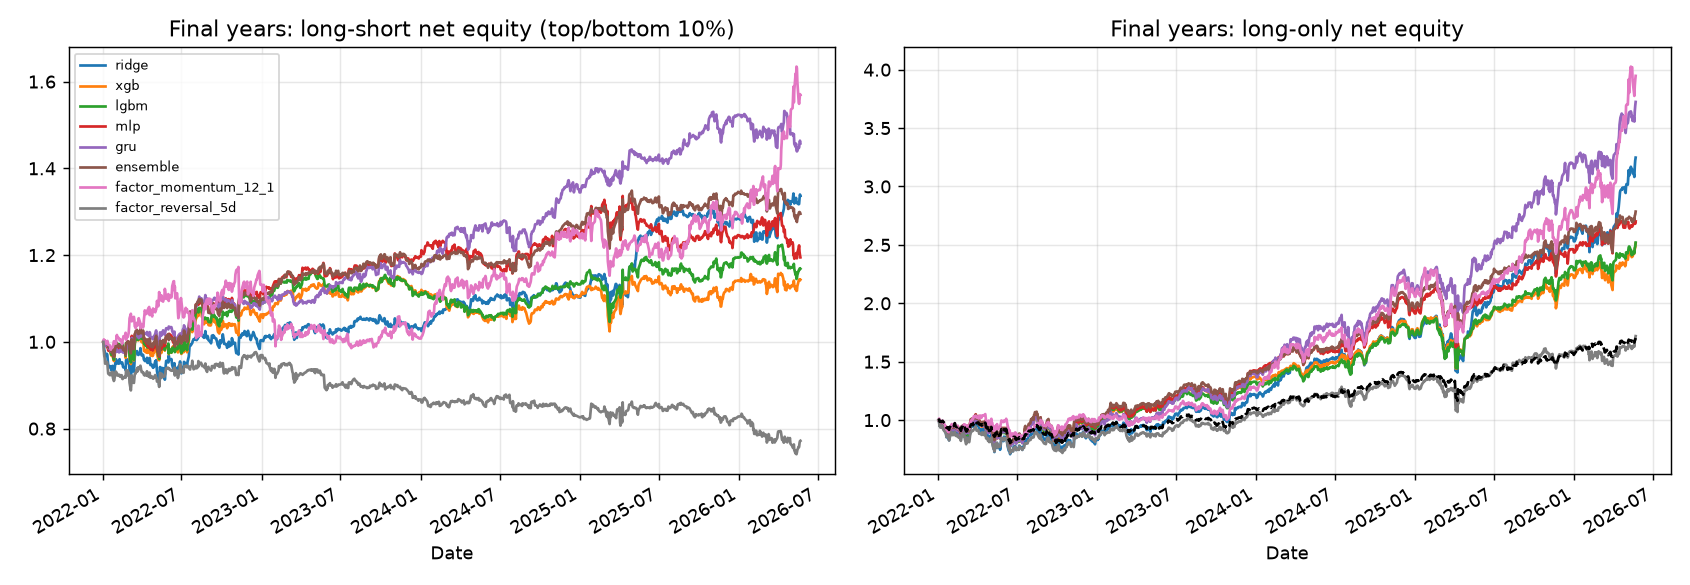
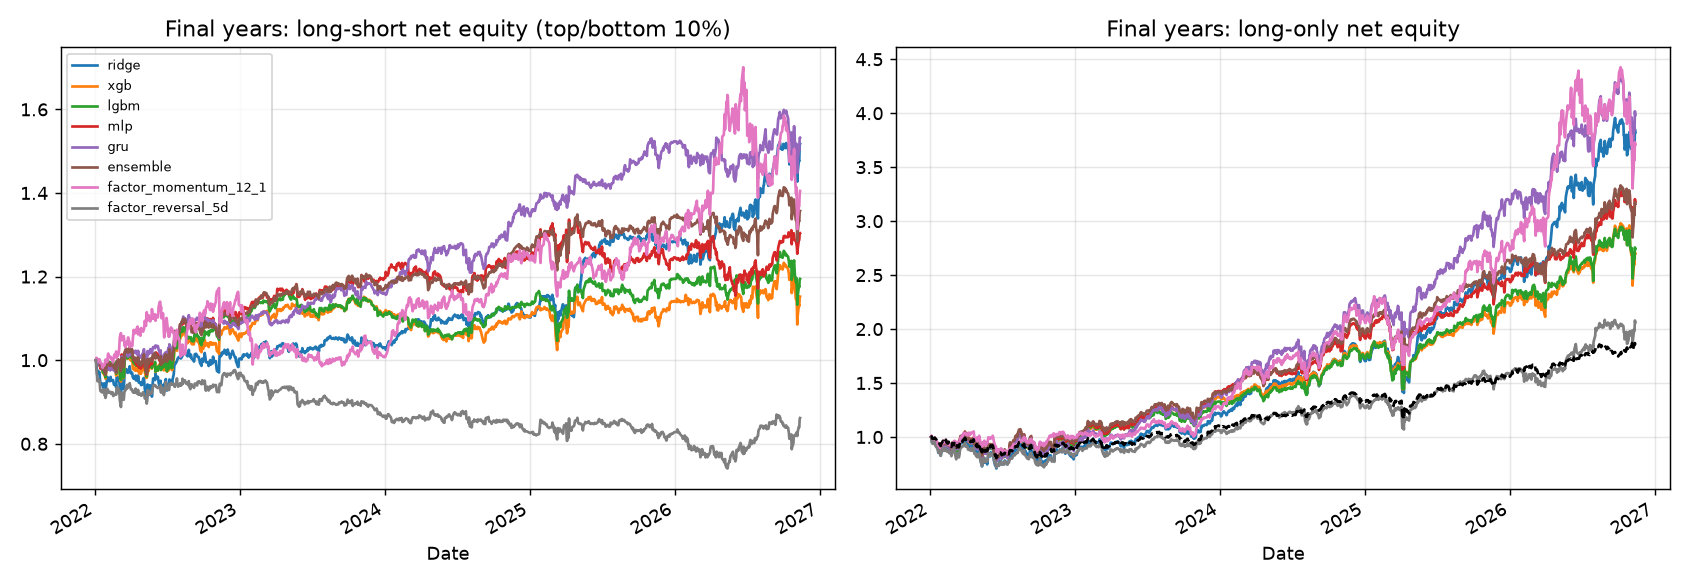
Rerun results on corrected data; add pristine-tail section and round-two search

diff --git a/ml2/significance.py b/ml2/significance.py
@@ -40,9 +40,12 @@ def main():
     fwd = ds.fwd[S.HORIZON]
     rows = []
     for model in MODELS:
-        for tag, (a, b) in (("dev", S.DEV_YEARS), ("final", S.FINAL_YEARS)):
+        for tag, (a, b) in (("dev", S.DEV_YEARS), ("final", S.FINAL_YEARS), ("pristine", S.FINAL_YEARS)):
             years = list(range(a, b + 1))
-            preds = explore.preds_for(ds, best, model, years, tag)
+            preds = explore.preds_for(ds, best, model, years, "final" if tag == "pristine" else tag)
+            if tag == "pristine":  # only the days no earlier analysis saw
+                years = [b]
+                preds = {b: preds[b].loc[S.PRISTINE_FROM:]}
             ls, lo = pooled(preds, years, ds, "ls"), pooled(preds, years, ds, "long")
             mom_ls = pooled(factor_preds(ds, years)["factor_momentum_12_1"], years, ds, "ls")
             ew = evaluate.equal_weight_universe(lo.index, ds.close)["net_returns"]

diff --git a/README.md b/README.md
@@ -65,7 +65,7 @@ is mainly diversification, not predictive skill.
 A bigger rebuild in `ml2/`. Instead of "will this ticker go up", the models rank about 520 stocks and ETFs
 against each other each day and a portfolio goes long the top decile and short the bottom decile.
 
-- **Data:** 2.5M rows (today's S&P 500 members plus 18 ETFs), daily, 2005 to May 2026, 109 features
+- **Data:** 2.6M rows (today's S&P 500 members plus 18 ETFs), daily, 2005 to Nov 2026, 109 features
   (momentum, volatility, technicals, 52-week range, volume and illiquidity, overnight gap vs intraday move,
   beta, sector-relative returns, VIX/SPY context, calendar) plus cross-sectional rank versions.
 - **Target:** cross-sectional rank of the 5-day forward return, so market-wide drift cancels out.
@@ -74,7 +74,8 @@ against each other each day and a portfolio goes long the top decile and short t
   config found by the overnight search below; every other model uses the improvement loop's settings.
 - **Validation:** yearly walk-forward with a 5-day embargo. Dev years 2013-2021 drive every decision.
   Final years 2022-2026 are reported but no tuning decision uses them (an early round did see them once,
-  so they are not a pristine test). Costs: 7 bps per trade plus 30 bps/yr borrow on shorts.
+  so they are not a pristine test). The days after 2026-05-22 are pristine: a data bug had hidden them from
+  every analysis until it was fixed late (see "Pristine tail"). Costs: 7 bps per trade plus 30 bps/yr borrow on shorts.
 - **Improvement loop** (`ml2/loop.py`): 35 passes over features, targets, horizons, hyperparameters, model
   families, portfolio rules and a 25-trial Optuna search. A change is kept only if it gains at least 0.0015
   mean rank IC and wins in at least 5 of 9 folds. The loop stopped on its patience rule twice because
@@ -83,42 +84,71 @@ against each other each day and a portfolio goes long the top decile and short t
 - **Outcome of the loop:** one change was kept (raw features instead of rank features, IC 0.030 to 0.032).
   Optuna and the bigger models did not beat the defaults.
 
-Held-out results, 2022 to May 2026 (net of costs, base decile book; the headline model is the one with the
+Held-out results, 2022 to Nov 2026 (net of costs, base decile book; the headline model is the one with the
 best dev Sharpe, and no choice used these years):
 
 | Model | Rank IC | Long-short Sharpe | Long-short return | Long-only top decile Sharpe | Long-only return |
 |---|---|---|---|---|---|
-| **GRU, search-tuned (headline)** | 0.025 | **1.10** | 9.0% | 1.25 | 35.1% |
-| Ensemble | 0.033 | 0.69 | 6.1% | 1.07 | 26.4% |
-| XGBoost | 0.032 | 0.37 | 3.1% | 0.97 | 23.5% |
-| LightGBM | 0.033 | 0.43 | 3.6% | 0.98 | 23.6% |
-| MLP | 0.024 | 0.47 | 4.2% | 1.03 | 25.5% |
-| Ridge | 0.029 | 0.68 | 6.9% | 1.09 | 30.9% |
-| 12-1 momentum factor | 0.030 | 0.84 | 10.9% | 1.37 | 36.9% |
-| 5-day reversal factor | 0.008 | -0.56 | -5.8% | 0.62 | 13.2% |
-| Equal-weight universe | | | | 0.80 | 13.0% |
+| **GRU, search-tuned (headline)** | 0.026 | **1.00** | 9.2% | 1.18 | 33.0% |
+| Ensemble | 0.033 | 0.68 | 6.5% | 1.08 | 26.8% |
+| XGBoost | 0.030 | 0.33 | 3.0% | 0.93 | 22.7% |
+| LightGBM | 0.032 | 0.41 | 3.7% | 0.96 | 23.2% |
+| MLP | 0.027 | 0.59 | 5.6% | 1.08 | 27.0% |
+| Ridge | 0.033 | 0.84 | 9.0% | 1.11 | 31.9% |
+| 12-1 momentum factor | 0.025 | 0.54 | 7.3% | 1.13 | 31.1% |
+| 5-day reversal factor | 0.012 | -0.25 | -3.0% | 0.72 | 16.1% |
+| Equal-weight universe | | | | 0.85 | 13.6% |
 
 ![v2 equity](results/v2/final_equity.png)
 
 ### Honest conclusion
 
 - **The signal is real and small.** Mean rank IC is about 0.03 on both dev and held-out data for every model.
-- **Tuning the sequence model mattered most.** The search-tuned GRU turns a similar rank IC (0.025) into a much
-  better portfolio: long-short Sharpe 1.10 against 0.37-0.69 for the other models. It trades less (48x per
-  year against 63-69x), so costs take a smaller share. Its config is heavily regularised: 5 feature groups,
-  a 10-day horizon, an excess-return target, a 60-day window, dropout 0.47 and only 4 epochs.
+- **Tuning the sequence model mattered most, though a linear model comes close.** The search-tuned GRU turns a
+  similar rank IC (0.026) into a better portfolio: long-short Sharpe 1.00 against 0.33-0.68 for the tree models,
+  MLP and ensemble. Ridge reaches 0.84. The GRU trades less (48x per year against 61-69x), so costs take a
+  smaller share. Its config is heavily regularised: 5 feature groups, a 10-day horizon, an excess-return
+  target, a 60-day window, dropout 0.47 and only 4 epochs.
 - **The evidence is stronger than in earlier rounds but still bounded.** The config was picked on 2013-2018 and
   confirmed on 2019-2021 (validation rank IC 0.033 against 0.0305 for the XGBoost baseline, winning 2 of 3
   years and losing 2021). The 2022-2026 years played no part in that choice, and its long-short Sharpe
-  interval there excludes zero ([0.31, 1.93]).
-- **Momentum still matters.** The GRU beat the 12-1 momentum factor on dev (clearly) and on the final years
-  (1.10 vs 0.84), but the final-years difference has an interval that includes zero. Momentum keeps the higher
-  long-only Sharpe (1.37 vs 1.25).
-- **Long-only top decile beat the equal-weight universe** by about 20% a year (return 35.1% vs 13.0%), but the
-  universe holds only today's S&P 500 members, so survivorship bias probably inflates that gap.
-- **Caveats on selection.** The GRU config is the best of about 150 search trials, so its numbers carry some
+  interval there excludes zero ([0.26, 1.76]).
+- **Momentum is an unstable benchmark.** The GRU beat the 12-1 momentum factor on dev (clearly) and on the final
+  years (1.00 vs 0.54), though the final-years difference has an interval that includes zero. Momentum did badly
+  in the pristine tail (Sharpe -0.90), after doing well in 2022-2025.
+- **Long-only top decile beat the equal-weight universe** over 2022-2026 by about 18% a year (return 33.0% vs
+  13.6%), but that edge did not appear in the pristine tail (next section). The universe holds only today's
+  S&P 500 members, so survivorship bias probably inflates the gap.
+- **Caveats on selection.** The GRU config is the best of about 230 search trials, so its numbers carry some
   winner's curse that the intervals below ignore. Its dev numbers include the tune years, so dev overstates it.
-  The most reliable figures are validation and the final years.
+  The most reliable figures are validation, the final years and the pristine tail.
+
+### Pristine tail (2026-05-23 to 2026-11-12)
+
+A data bug had silently dropped every day after 2026-05-22 from the dataset, because two holidays and one
+unfilled day carried only a VIX row and an all-missing day breaks every rolling window containing it. After the
+fix (`drop_incomplete_days`, with a test) the models were scored on the 5.5 months no earlier decision saw.
+Results are unchanged for earlier dates. About 118 trading days is a short sample.
+
+| Model | Rank IC | Long-short Sharpe | Long-only top decile Sharpe | Long-only return |
+|---|---|---|---|---|
+| GRU, search-tuned (headline) | 0.035 | 0.65 | 0.55 | 13.1% |
+| Ensemble | 0.038 | 0.73 | 1.13 | 29.5% |
+| Ridge | 0.069 | 1.70 | 1.15 | 34.8% |
+| MLP | 0.052 | 1.68 | 1.63 | 41.3% |
+| XGBoost | 0.016 | 0.26 | 0.63 | 15.2% |
+| LightGBM | 0.023 | 0.35 | 0.71 | 17.7% |
+| 12-1 momentum factor | -0.024 | -0.90 | -0.29 | -18.1% |
+| 5-day reversal factor | 0.044 | 1.55 | 1.47 | 40.2% |
+| Equal-weight universe | | | 1.50 | 18.4% |
+
+- **The ranking signal persisted.** Every ML model has a positive rank IC, including the GRU at 0.035, but the
+  GRU's interval includes zero ([-0.010, 0.071]) on a sample this short.
+- **The GRU's long-only book lagged the universe** (Sharpe 0.55 vs 1.50, return 13.1% vs 18.4%). Its
+  long-short Sharpe was positive (0.65), so the top decile beat the bottom decile without beating the average
+  stock. Ridge and the MLP did best here, so the ranking of models is not stable across periods.
+- **Verdict:** the tail neither confirms nor refutes the GRU. The sign of its rank IC and long-short return
+  matches earlier periods, and every interval is wide.
 
 ### Overnight search (`ml2/search.py`)
 
@@ -129,12 +159,16 @@ rank-IC training loss and recency weighting. Protocol: trials are scored only on
 than 0.002 rank IC and wins at least 2 of 3 validation years. Among passing finalists the one with the best
 tune score is taken, so validation acts as a gate and never as a second tuning set.
 
-- **150 trials:** 127 completed, 18 pruned, 5 failed on GPU memory. TPE concentrated on GRUs (84 of the first
-  147 trials), whose mean tune IC (0.030) beat the other families (0.021-0.025).
+- **Round one, 150 trials:** 127 completed, 18 pruned, 5 failed on GPU memory. TPE concentrated on GRUs (84 of
+  the first 147 trials), whose mean tune IC (0.030) beat the other families (0.021-0.025).
+- **Round one finalists:** the top GRUs reached validation IC 0.033 and long-short Sharpe 1.22-1.29 (baseline
+  0.0305 and 0.86). They are near-copies of one config, so this is one finding and not ten. One was adopted.
+- **Round two, 227 trials in total:** finalists now had to beat the adopted GRU. None did. The best, an MLP
+  (trial 222), reached validation IC 0.0338 against 0.0334, a gain of 0.0004 where 0.002 was required. The
+  trial with the highest tune IC of all (0.0385, an MLP) validated at only 0.032, which is the winner's curse
+  that the validation gate is there to catch.
 - **Engineering lessons:** a first run stalled on one transformer trial that would have taken two hours, so every
   trial now has a 10-minute budget. A restart also replayed old random draws until the seed was changed.
-- **Finalists:** the top GRUs reached validation IC 0.033 and long-short Sharpe 1.22-1.29 (baseline 0.0305 and
-  0.86). They are near-copies of one config, so this is one finding and not ten.
 
 ### Exploration round (`ml2/explore.py`)
 
@@ -165,22 +199,25 @@ second look, not a clean test. Long-short Sharpe after costs (rank IC shown wher
 95% block-bootstrap intervals (20-day blocks, 5000 resamples) for the search-tuned GRU with the base decile book.
 Per-model results are in `results/v2/significance.csv`, which also holds the ensemble.
 
-| Statistic | Dev 2013-21 | Final 2022-26 |
-|---|---|---|
-| Rank IC (mean per day) | 0.036 [0.023, 0.048] | 0.025 [0.010, 0.041] |
-| Long-short Sharpe | 1.26 [0.59, 1.94] | 1.10 [0.31, 1.93] |
-| Long-only top decile Sharpe | 1.50 [0.82, 2.25] | 1.25 [0.44, 2.13] |
-| Long-short Sharpe minus momentum factor | 1.37 [0.48, 2.23] | 0.26 [-0.80, 1.31] |
-| Long-only minus equal-weight, annual return | +16.2% [9.0%, 23.9%] | +20.1% [9.8%, 30.3%] |
+| Statistic | Dev 2013-21 | Final 2022-26 | Pristine tail (118 days) |
+|---|---|---|---|
+| Rank IC (mean per day) | 0.036 [0.023, 0.048] | 0.026 [0.012, 0.041] | 0.035 [-0.010, 0.071] |
+| Long-short Sharpe | 1.26 [0.59, 1.94] | 1.00 [0.26, 1.76] | 0.65 [-1.36, 2.98] |
+| Long-only top decile Sharpe | 1.50 [0.82, 2.25] | 1.18 [0.45, 2.00] | 0.56 [-1.40, 2.70] |
+| Long-short Sharpe minus momentum factor | 1.37 [0.48, 2.23] | 0.47 [-0.45, 1.36] | 1.38 [0.005, 2.67] |
+| Long-only minus equal-weight, annual return | +16.2% [9.0%, 23.9%] | +18.2% [6.8%, 29.2%] | -0.6% [-69%, +65%] |
 
-- **The ranking signal is statistically real.** The rank IC interval excludes zero in both periods.
-- **The GRU's long-short Sharpe interval excludes zero on the final years** ([0.31, 1.93]). The ensemble's
-  interval barely does ([0.03, 1.36]).
-- **The momentum comparison is open on the final years.** The GRU leads by 0.26 but the interval
-  (-0.80 to 1.31) is wide. On dev the GRU led by 1.37, with an interval that excludes zero.
-- **The long-only edge over the equal-weight universe is the most stable result**, positive in both periods.
-  It carries the survivorship bias described below, which these intervals do not measure.
-- **The intervals treat the model and portfolio as fixed.** They ignore the choice of this GRU among about 150
+- **The ranking signal is statistically real over the long periods.** The rank IC interval excludes zero on
+  dev and on the final years. On the pristine tail the estimate is similar (0.035) but the interval is wider
+  than the effect.
+- **The GRU's long-short Sharpe interval excludes zero on the final years** ([0.26, 1.76]) but not on the
+  118-day tail, which is too short to settle anything.
+- **The momentum comparison is open.** The GRU led by 0.47 on the final years (interval includes zero) and by
+  1.38 on the tail, where momentum lost money. On dev it led by 1.37 with an interval that excludes zero.
+- **The long-only edge over the equal-weight universe held over 2022-2026 and vanished on the tail**
+  (-0.6%, interval spanning -69% to +65%). It also carries the survivorship bias described below, which these
+  intervals do not measure.
+- **The intervals treat the model and portfolio as fixed.** They ignore the choice of this GRU among about 230
   trials, so the true uncertainty is larger. The dev interval also includes years the search tuned on.
 
 ### Cost sensitivity (`ml2/costs.py`)
@@ -191,17 +228,17 @@ The ensemble and the holding-buffer variants are in `results/v2/cost_sensitivity
 | Book | Period | Turnover/yr | 0 bps | 7 bps | 14 bps | 21 bps | Break-even cost |
 |---|---|---|---|---|---|---|---|
 | Long-short | Dev 2013-21 | 43x | 1.67 | 1.26 | 0.84 | 0.42 | 28 bps |
-| Long-short | Final 2022-26 | 48x | 1.51 | 1.10 | 0.69 | 0.27 | 26 bps |
+| Long-short | Final 2022-26 | 48x | 1.37 | 1.00 | 0.64 | 0.27 | 26 bps |
 | Long-only top decile | Dev 2013-21 | 37x | 1.61 | 1.50 | 1.39 | 1.28 | 104 bps |
-| Long-only top decile | Final 2022-26 | 40x | 1.35 | 1.25 | 1.15 | 1.04 | 92 bps |
+| Long-only top decile | Final 2022-26 | 39x | 1.28 | 1.18 | 1.08 | 0.98 | 89 bps |
 
 - **The GRU is far less cost-sensitive than the earlier ensemble.** Its long-short break-even cost is 26-28 bps,
   against 17-19 bps for the ensemble, because it trades 43-48x per year instead of 62-63x. That covers
   typical large-cap execution costs, though not wide retail spreads.
 - **The long-only book holds up to about 90 bps**, because it keeps the market's upside and only tilts
   toward the top decile.
-- **The holding buffer does not help the GRU** (long-short Sharpe 1.09 vs 1.10 on the final years). It
-  helped the earlier ensemble, whose daily book changed more.
+- **The holding buffer makes no consistent difference for the GRU** (long-short Sharpe 1.25 vs 1.26 on dev,
+  1.04 vs 1.00 on the final years). It helped the earlier ensemble, whose daily book changed more.
 
 ## Limitations
 
